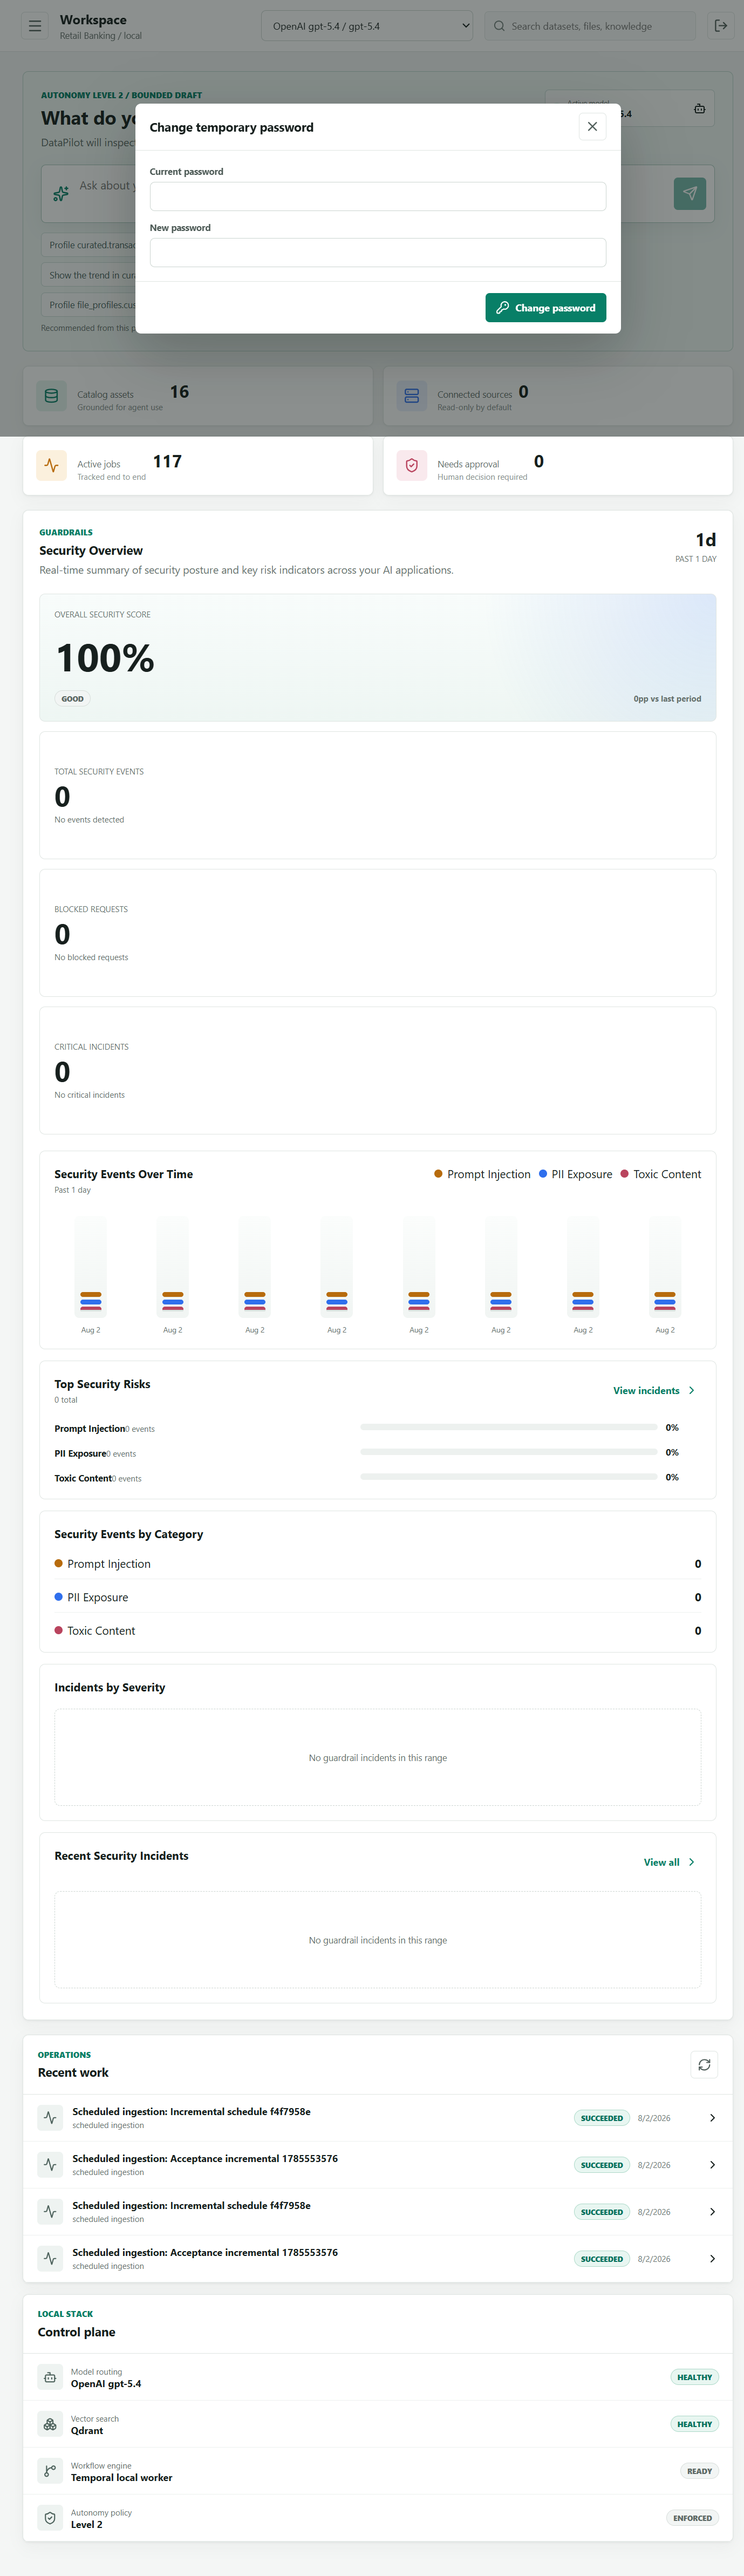
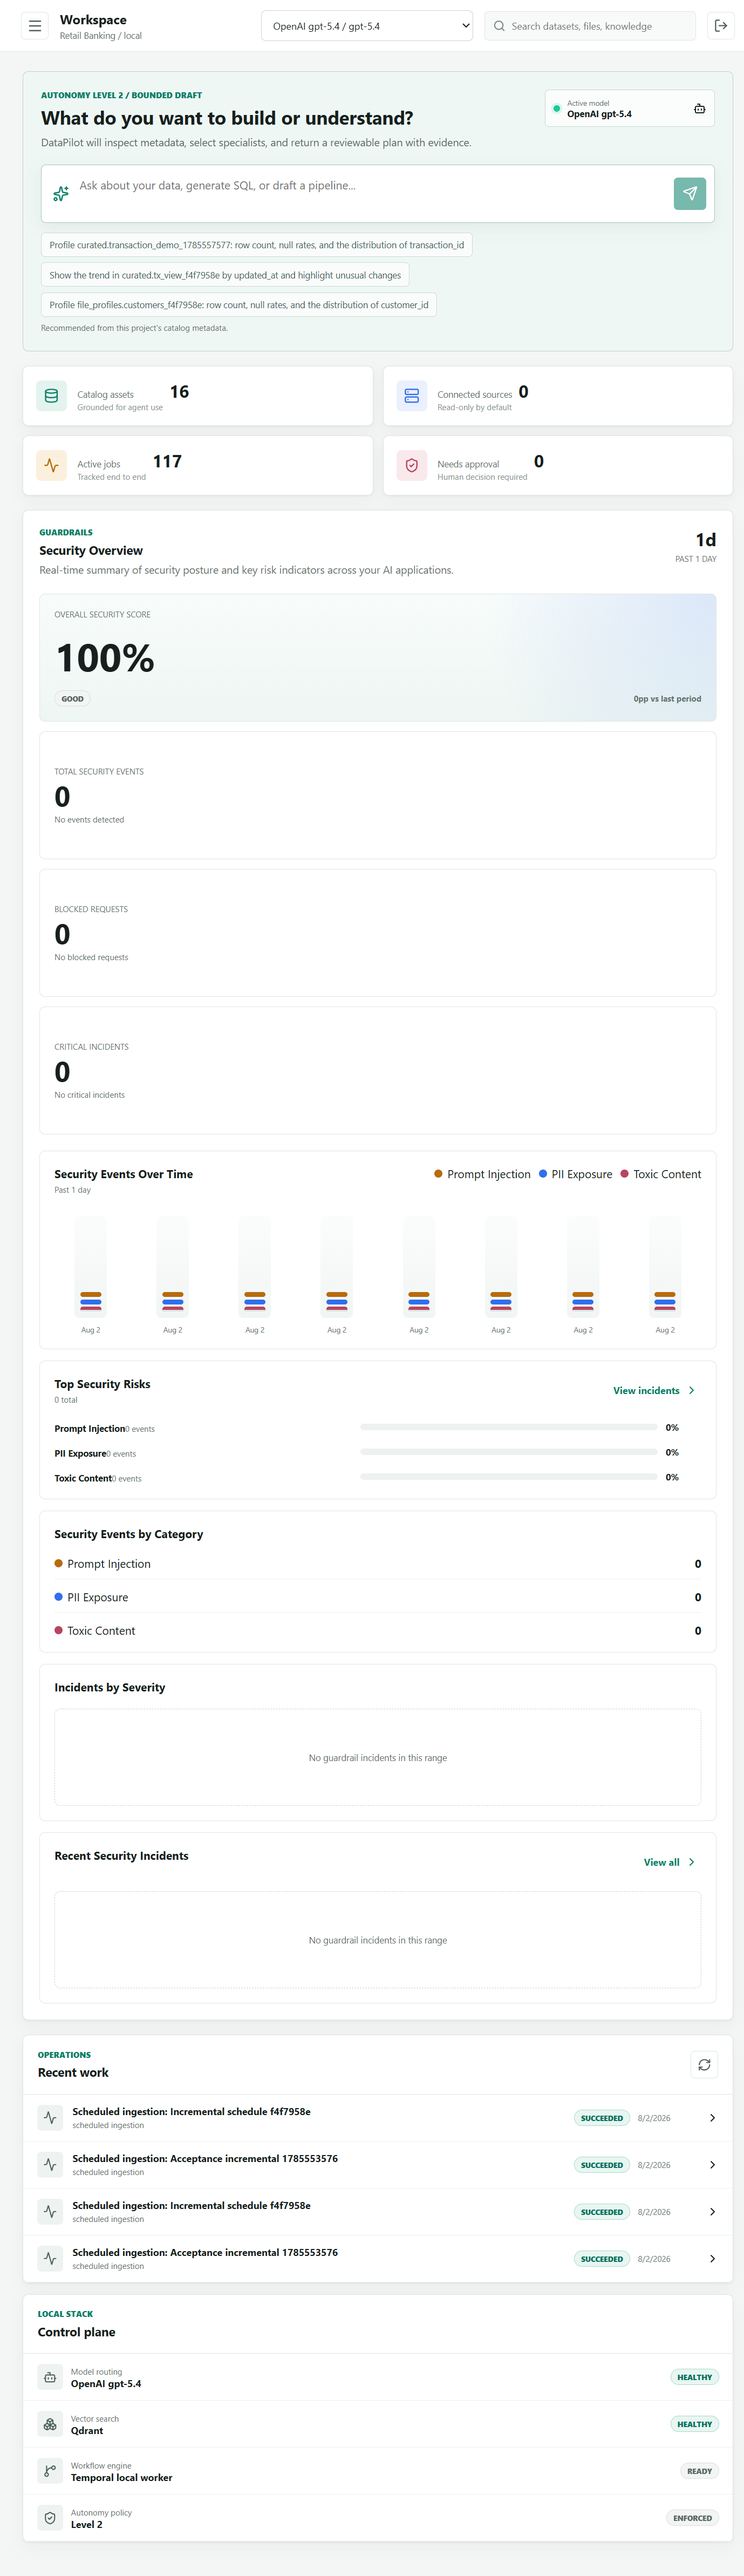
Recreate screenshots from current UI state

Changed region(s): [[0.0, 0.0, 1.0, 0.1873]]

diff --git a/docs/screenshots/README.md b/docs/screenshots/README.md
@@ -1,13 +1,21 @@
 # UI screenshots
 
-These screenshots capture representative DataPilot UI pages from the local instance.
+These screenshots were recreated from the current DataPilot UI view.
 
-- home.png
 - workspace.png
 - analysis.png
+- datasets.png
 - files.png
+- sql.png
+- notebooks.png
+- pipelines.png
 - jobs.png
+- artifacts.png
+- quality.png
+- superset.png
+- approvals.png
 - toolregistry.png
 - agents.png
+- semanticlayer.png
+- evaluations.png
 - admin.png
-- current-view.png
